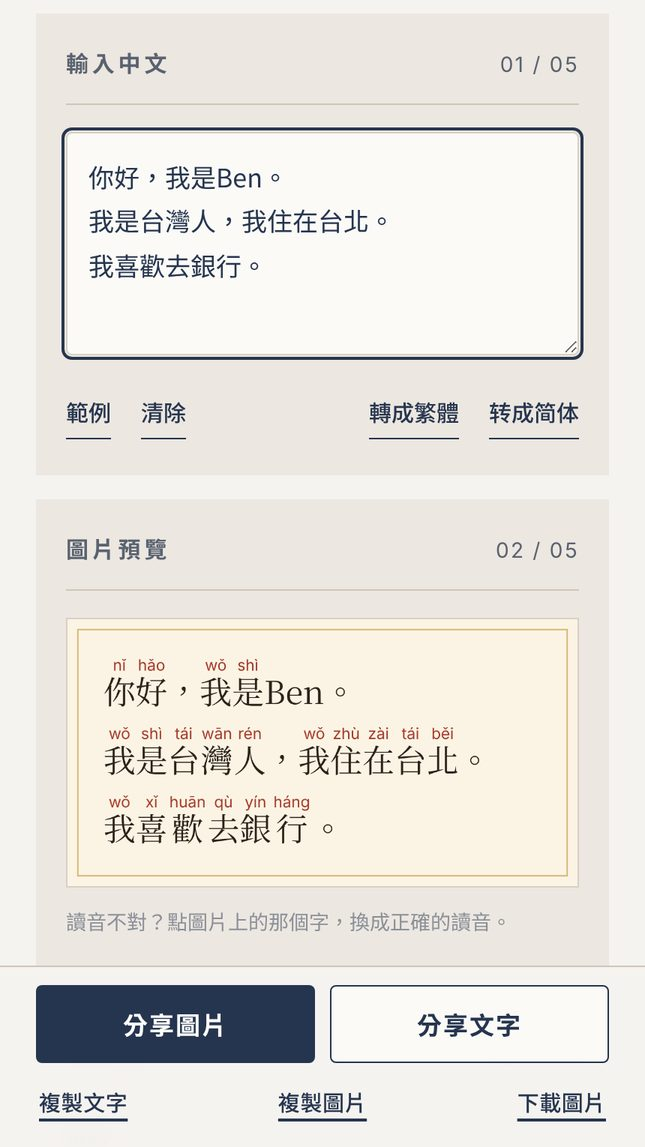
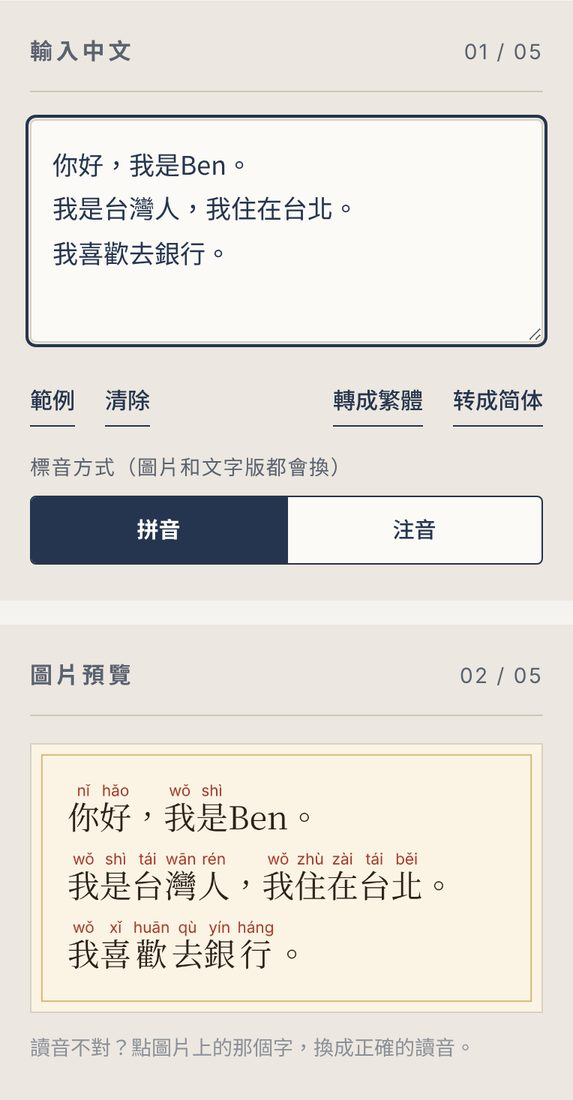
Tool card and guide: add zhuyin option, new screenshots and steps
Claude-Session: https://claude.ai/code/session_017H9FCQrGWGwPoHjPCCrWQe

Changed region(s): [[0.0297, 0.0309, 0.9791, 0.9891]]

diff --git a/index.html b/index.html
@@ -130,22 +130,25 @@ const CONFIG = {
       glyph: "音", color: "gold",
       title: { zh: "漢字加拼音", es: "Hanzi con pinyin" },
       desc: {
-        zh: "貼上中文，變成有拼音的圖片或文字，直接傳給學生。台灣讀音，破音字自動判斷。",
-        es: "Pega un texto en chino y conviértelo en imagen o texto con pinyin para enviarlo a tus estudiantes. Pronunciación de Taiwán; los caracteres polifónicos se detectan solos."
+        zh: "貼上中文，變成有拼音或注音的圖片或文字，直接傳給學生。台灣讀音，破音字自動判斷。",
+        es: "Pega un texto en chino y conviértelo en imagen o texto con pinyin o zhuyin (bopomofo) para enviarlo a tus estudiantes. Pronunciación de Taiwán; los caracteres polifónicos se detectan solos."
       },
-      tags: [{ zh: "拼音", es: "Pinyin" }, { zh: "LINE / WhatsApp", es: "LINE / WhatsApp" }],
+      tags: [{ zh: "拼音 / 注音", es: "Pinyin / Zhuyin" }, { zh: "LINE / WhatsApp", es: "LINE / WhatsApp" }],
       url: "https://wangchiapin.github.io/messagewithpinyin/",
       guide: {
         steps: [
           { img: "img/tool-pinyin-1.jpg",
-            zh: "<b>輸入中文</b>：貼上或直接打字。簡體可以按「轉成繁體」，想先看效果可以按「範例」。拼音會自動加在每個字上方，圖片預覽馬上就會出現。",
-            es: "<b>Escribe el texto en chino</b>: pégalo o escríbelo. Si está en simplificado, pulsa «轉成繁體» (convertir a tradicional); para ver un ejemplo, pulsa «範例». El pinyin aparece encima de cada carácter y la imagen se muestra al instante." },
+            zh: "<b>輸入中文</b>：貼上或直接打字。簡體可以按「轉成繁體」，想先看效果可以按「範例」。圖片預覽馬上就會出現。",
+            es: "<b>Escribe el texto en chino</b>: pégalo o escríbelo. Si está en simplificado, pulsa «轉成繁體» (convertir a tradicional); para ver un ejemplo, pulsa «範例». La imagen se muestra al instante." },
           { img: "img/tool-pinyin-2.jpg",
+            zh: "<b>選「拼音」或「注音」</b>：在「標音方式」按「拼音」或「注音」，圖片和文字版會一起換。拼音在每個字的上方，注音在每個字的右邊。",
+            es: "<b>Elige «拼音» (pinyin) o «注音» (zhuyin)</b>: en «標音方式» pulsa una de las dos y tanto la imagen como el texto cambian. El pinyin va encima de cada carácter; el zhuyin, a su derecha." },
+          { img: "img/tool-pinyin-3.jpg",
             zh: "<b>讀音不對？點那個字</b>：點圖片上的字，選正確的讀音，或自己打拼音（例：wo3）。勾選「之後這個字都這樣讀」，下次就會自動套用。",
             es: "<b>¿Pronunciación incorrecta? Toca el carácter</b>: toca el carácter en la imagen y elige la lectura correcta, o escribe el pinyin tú mismo (ej.: wo3). Marca «之後這個字都這樣讀» para que lo recuerde la próxima vez." },
-          { img: "img/tool-pinyin-3.jpg",
-            zh: "<b>調整圖片</b>：可以換顏色（米黃、白底、青綠、深色）、漢字和拼音的大小，以及漢字字體（楷體或黑體）。",
-            es: "<b>Ajusta la imagen</b>: cambia el color (crema, blanco, verde, oscuro), el tamaño de los caracteres y del pinyin, y la tipografía (楷體 o 黑體)." },
+          { img: "img/tool-pinyin-4.jpg",
+            zh: "<b>調整圖片</b>：可以換顏色（米黃、白底、青綠、深色）、漢字和拼音／注音的大小，拼音／注音可選「單色」或「依聲調上色」，還可以選漢字字體（楷體或黑體）。",
+            es: "<b>Ajusta la imagen</b>: cambia el color (crema, blanco, verde, oscuro), el tamaño de los caracteres y del pinyin/zhuyin, el color del pinyin/zhuyin («單色» un solo color o «依聲調上色» según el tono) y la tipografía (楷體 o 黑體)." },
           { zh: "<b>傳給學生</b>：按下方的「分享圖片」或「分享文字」，選 LINE 或 WhatsApp 就能送出。也可以「複製」或「下載圖片」。",
             es: "<b>Envíalo a tus estudiantes</b>: pulsa «分享圖片» (compartir imagen) o «分享文字» (compartir texto) y elige LINE o WhatsApp. También puedes copiarlo o descargar la imagen." }
         ],
